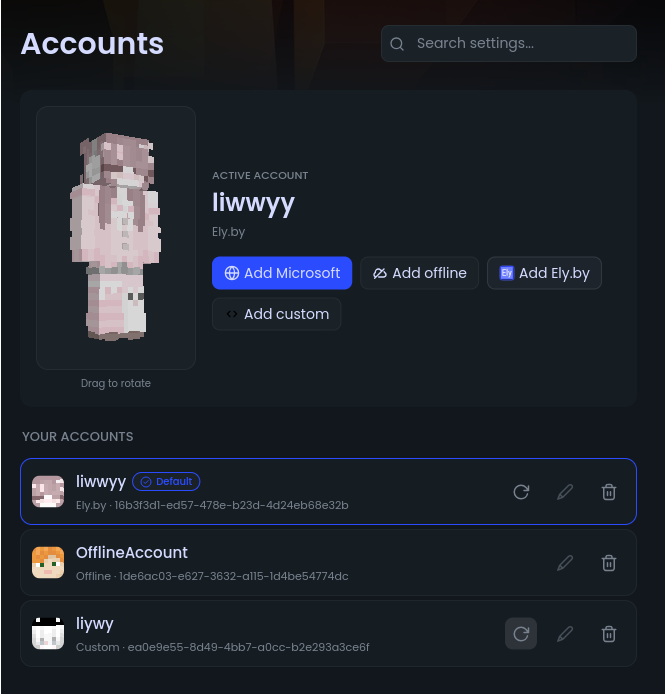
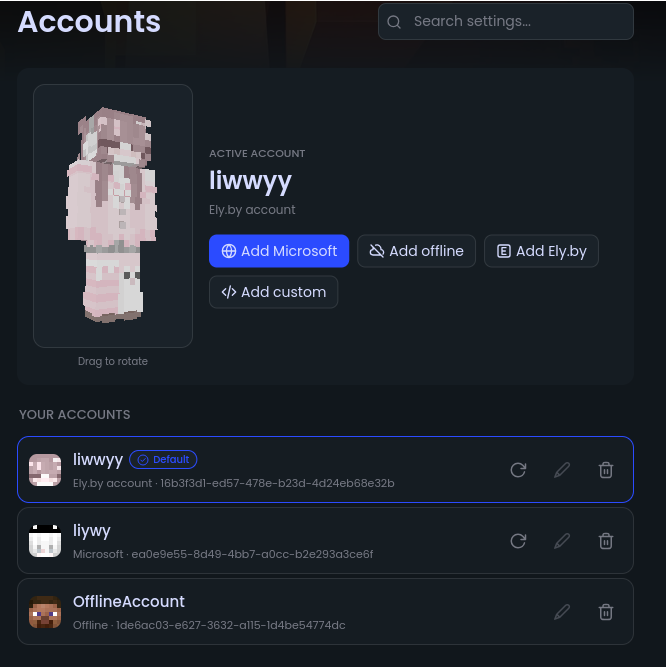
docs: refresh the maintainer account screenshots

diff --git a/README.md b/README.md
@@ -27,7 +27,7 @@ This fork is **not** endorsed by Polyfrost/OneLauncher
 <details>
   <summary>Browse the screenshot gallery</summary>
 
-  <p>The account screenshots are from version 2.9.0. The offline launch screenshot was provided by the maintainer.</p>
+  <p>Screenshots are supplied by the maintainer. The onboarding and account-manager screenshots have been refreshed; the other account-dialog screenshots are from version 2.9.0.</p>
 
   <table>
     <tr>
